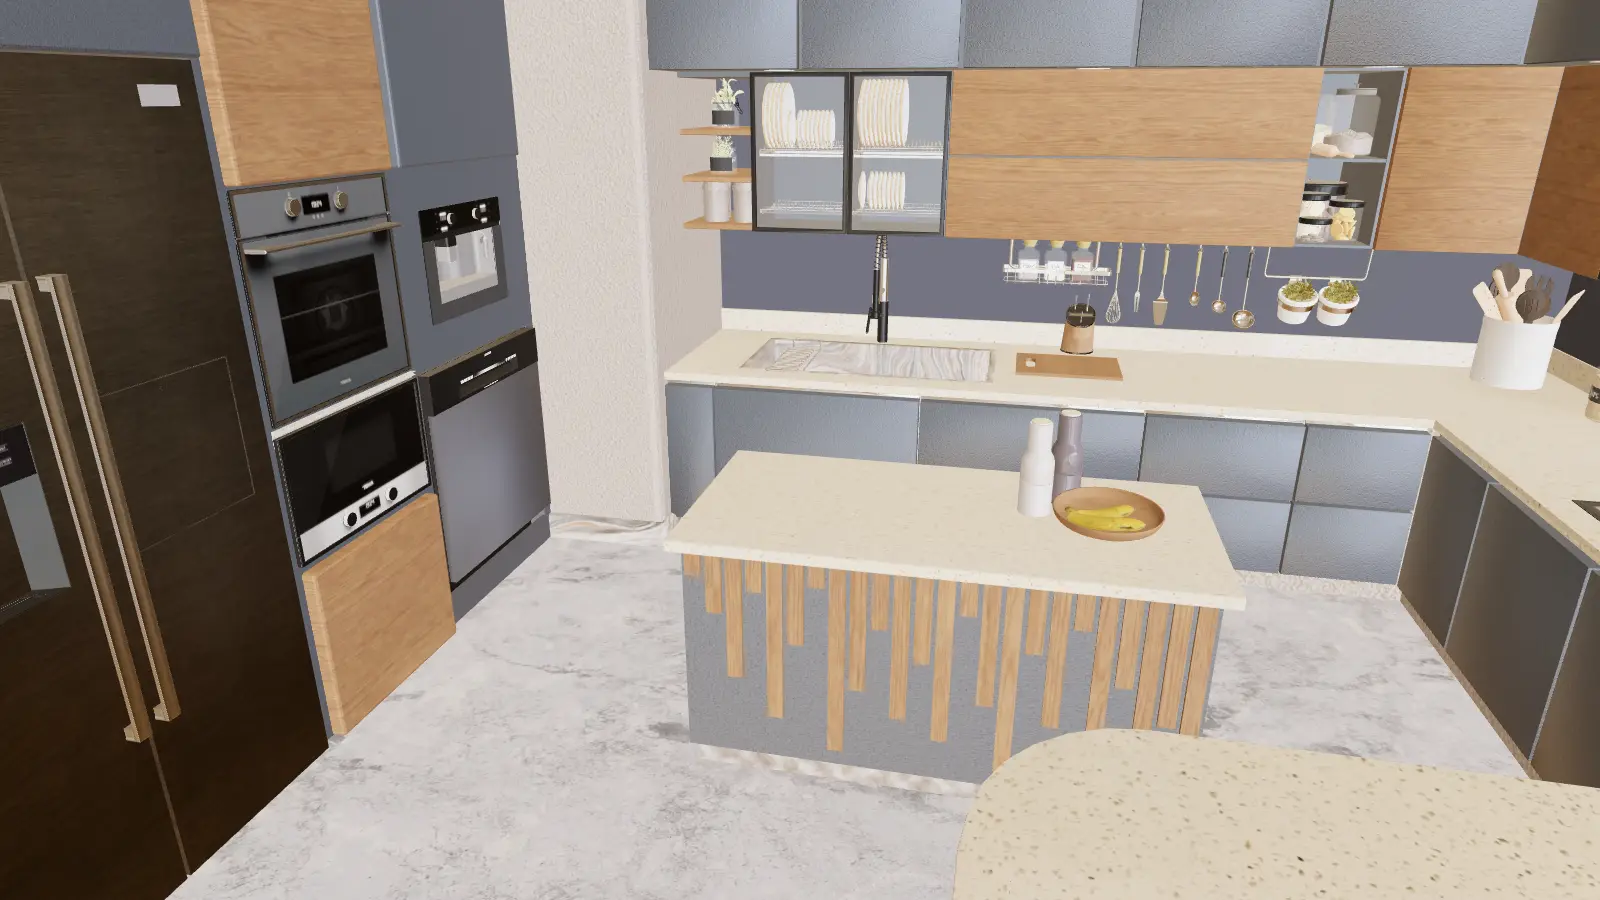
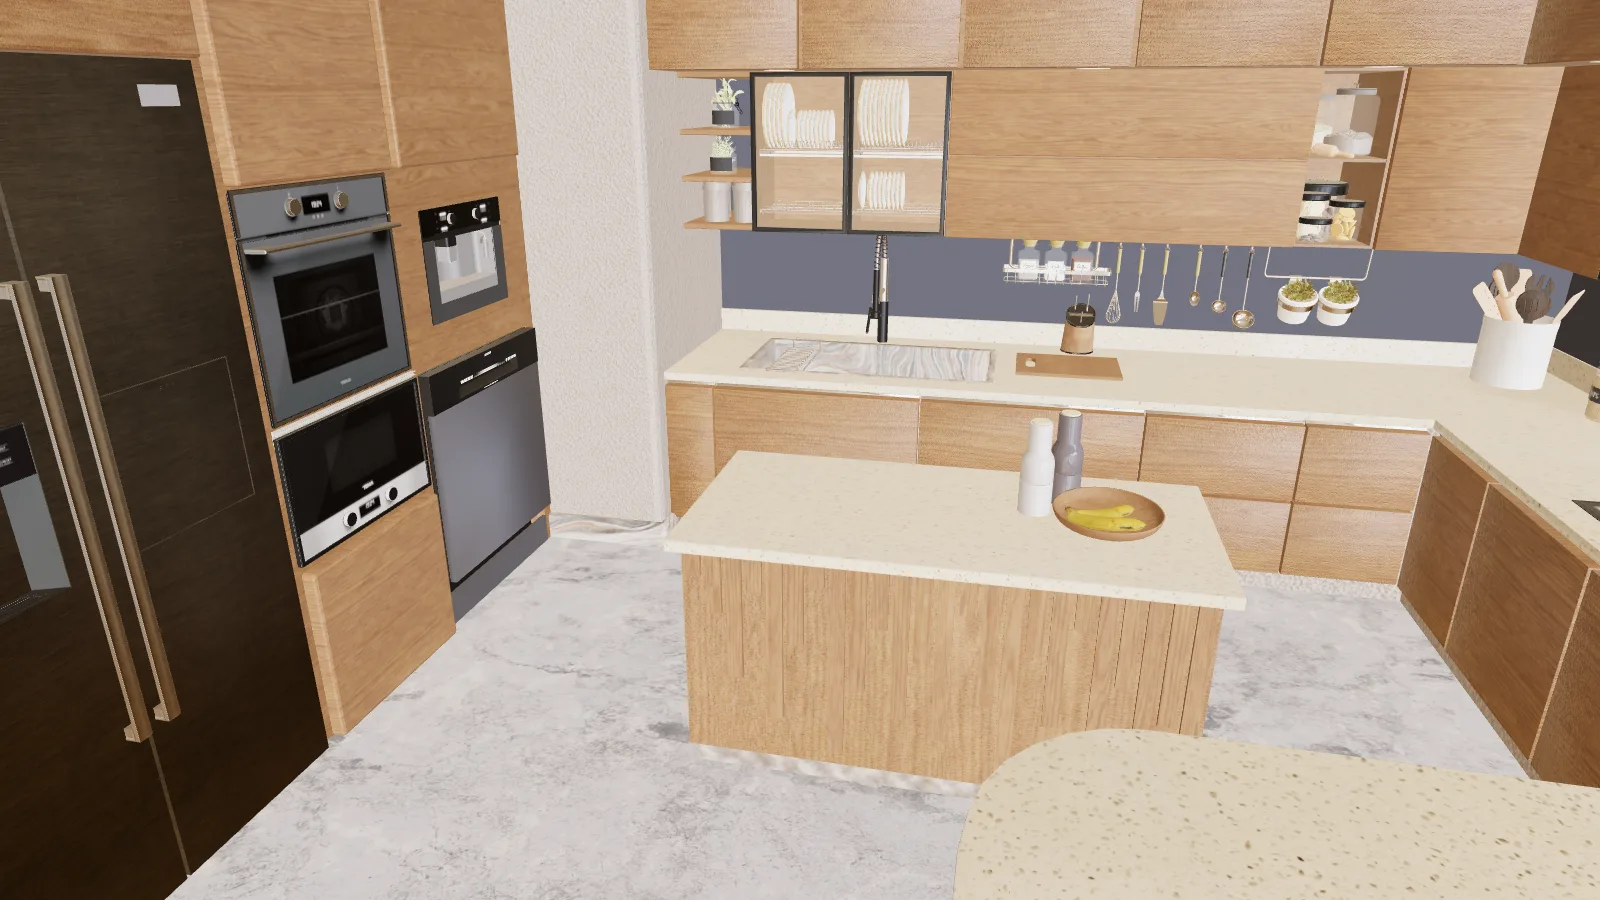
Hero 3D: fronty jak w ofercie (koniec pionowych pasów na wyspie), nowy hero-poster

diff --git a/src/components/site/HeroScene.tsx b/src/components/site/HeroScene.tsx
@@ -5,6 +5,7 @@ import { Canvas, useFrame, useThree } from "@react-three/fiber";
 import { Environment, useGLTF } from "@react-three/drei";
 import { Box3, Timer, Vector3 } from "three";
 import { prepareKitchenModel } from "../kitchenMaterials";
+import { installFrontSwap } from "../frontMaterials";
 
 /*
  * Tło strony głównej: ta sama kuchnia co w ofercie, kamera sama powoli kołysze się
@@ -26,6 +27,7 @@ const PERIOD = 40; // sekundy na pełne wahnięcie
 function Kitchen({ still, onReady }: { still: boolean; onReady?: () => void }) {
   const { scene } = useGLTF(MODEL_URL, true, true);
   const camera = useThree((s) => s.camera);
+  const invalidate = useThree((s) => s.invalidate);
 
   const offset = useMemo(() => {
     prepareKitchenModel(scene);
@@ -33,6 +35,11 @@ function Kitchen({ still, onReady }: { still: boolean; onReady?: () => void }) {
     const center = box.getCenter(new Vector3());
     return [-center.x, -box.min.y, -center.z] as [number, number, number];
   }, [scene]);
+
+  // Te same fronty co w ofercie (domyślnie dąb naturalny). W modelu lamele wyspy (OakWood)
+  // przenikają się z korpusem (Closet) – przy dwóch różnych materiałach widać było na wyspie
+  // poszarpane pionowe pasy. Wspólny materiał frontów ukrywa ten szew, tak jak w scenie oferty.
+  useEffect(() => installFrontSwap(scene, invalidate), [scene, invalidate]);
 
   // Własny THREE.Timer zamiast przestarzałego THREE.Clock (zegar R3F wciąż go używa wewnętrznie).
   const timer = useMemo(() => new Timer(), []);
@@ -80,7 +87,7 @@ export default function HeroScene({ offscreen = false, onReady }: { offscreen?: 
       frameloop={still || !visible || offscreen ? "demand" : "always"}
       dpr={1}
       gl={{ antialias: true, toneMappingExposure: 1.15 }}
-      camera={{ position: CAMERA_START.toArray(), fov: 50, near: 0.05, far: 60 }}
+      camera={{ position: CAMERA_START.toArray(), fov: 50, near: 0.25, far: 25 }}
     >
       <color attach="background" args={["#0c0b0a"]} />
       <directionalLight position={[3.4, 5, 3.6]} intensity={2.2} color="#fff4e6" />
